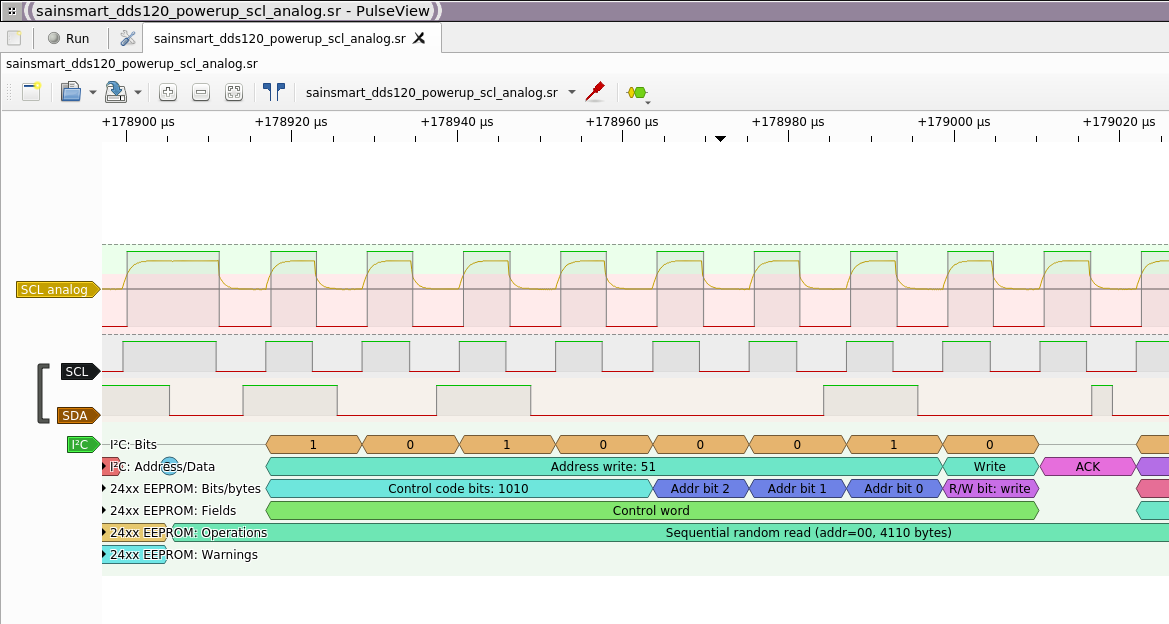
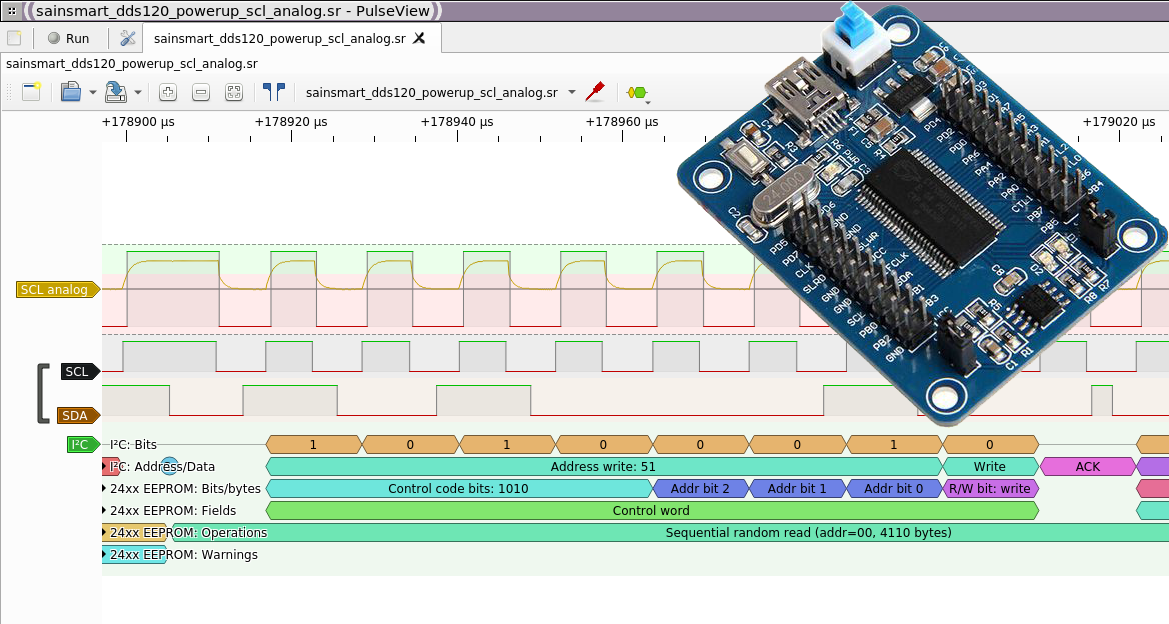
01032024

Changed region(s): [[0.5543, 0.0, 1.0, 0.7003]]

diff --git a/README.md b/README.md
@@ -1,5 +1,5 @@
 LOGIC ANALYTICS WITH CY7C68013A BOARD
 ====
 <img src="https://raw.githubusercontent.com/HDPro/makelogic/master/images/image_1.png" align="center">
-<img src="https://raw.githubusercontent.com/HDPro/makelogic/master/images/image_2.jpg" width=400 align="right">
 
+### SET ADDRESS FOR I2C EEPROM
